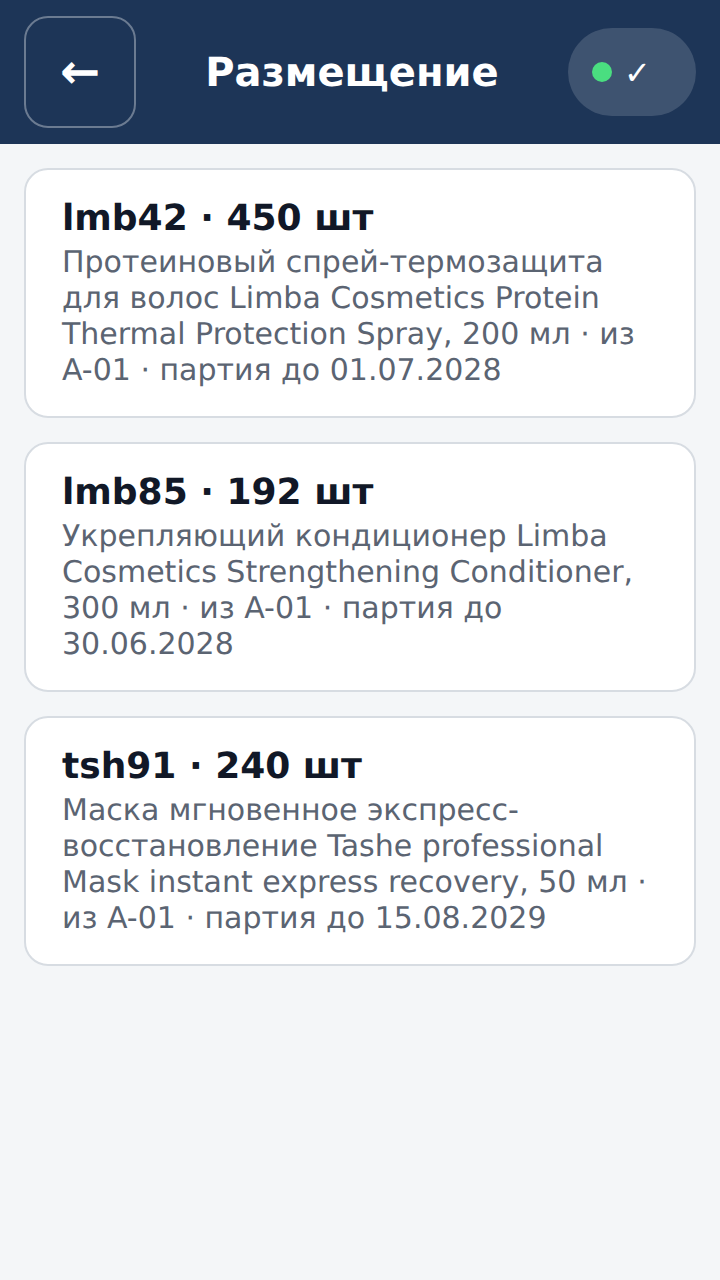
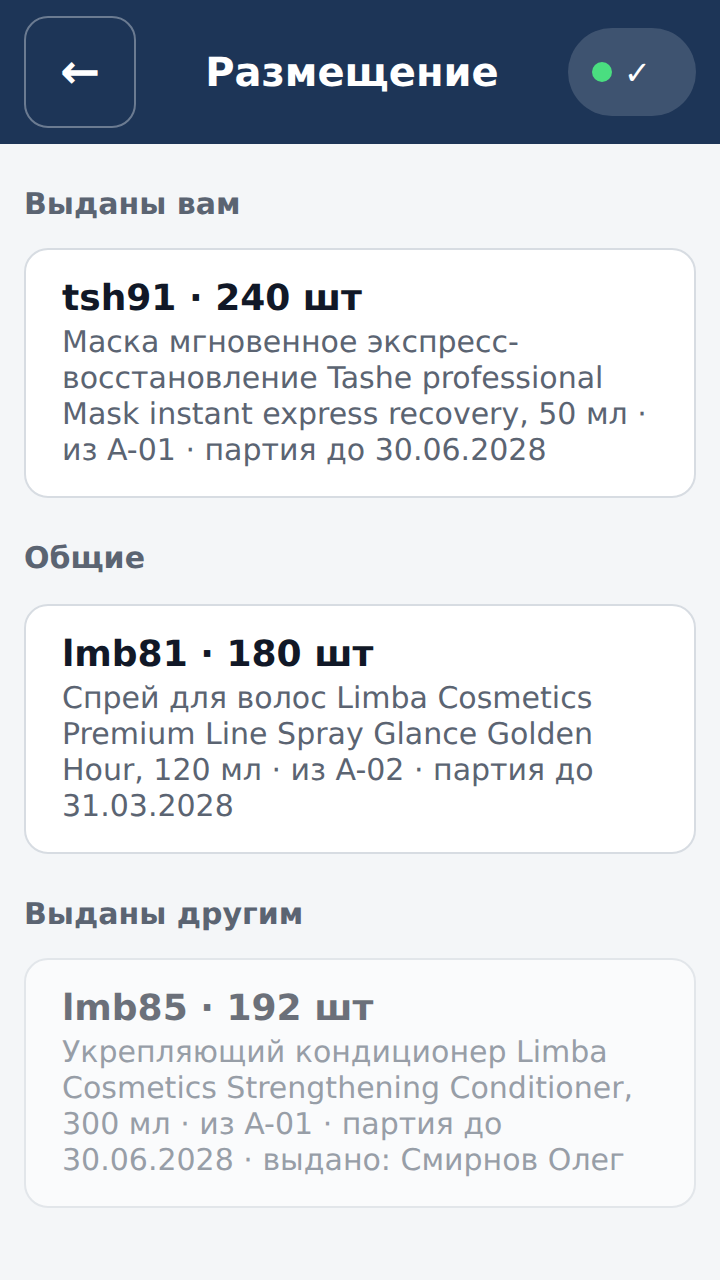
wms: памятка старшего смены, контроль склада и бейджи в учебнике, обновлены памятки и «О программе»
Claude-Session: https://claude.ai/code/session_01EQchvHucqRYRNc5ebqMrHS

diff --git a/wms/starshiy/index.html b/wms/starshiy/index.html
@@ -1,0 +1,168 @@
+<!doctype html>
+<html lang="ru">
+<head>
+<meta charset="utf-8">
+<meta name="viewport" content="width=device-width, initial-scale=1, viewport-fit=cover">
+<meta name="robots" content="noindex, nofollow">
+<meta name="description" content="Памятка старшего смены склада Подольск: контроль склада, выдача заданий, приёмки, сотрудники, бейджи и PIN, ТСД, этикетки.">
+<meta name="color-scheme" content="light dark">
+<title>Памятка старшего смены</title>
+<link rel="preconnect" href="https://fonts.googleapis.com">
+<link rel="preconnect" href="https://fonts.gstatic.com" crossorigin>
+<link rel="stylesheet" href="https://fonts.googleapis.com/css2?family=Unbounded:wght@700&family=Golos+Text:wght@400;600;700&family=JetBrains+Mono:wght@600;700&display=swap">
+<style>
+/* Памятка на одну страницу A4: только то, что нужно в работе. Тот же стиль, что у учебника. */
+:root {
+  --bg: #f2f4f7; --surface: #ffffff; --ink: #142033; --muted: #586478; --line: #d5dbe4;
+  --brand: #1d3557; --brand-soft: #e4ebf5; --signal: #b45f00; --signal-soft: #fff1d9; --bad: #b42318;
+  --f-display: "Unbounded", "Golos Text", system-ui, sans-serif;
+  --f-body: "Golos Text", system-ui, -apple-system, "Segoe UI", Roboto, sans-serif;
+  --f-mono: "JetBrains Mono", ui-monospace, Menlo, Consolas, monospace;
+}
+@media (prefers-color-scheme: dark) {
+  :root:not([data-theme="light"]) {
+    --bg: #0e1520; --surface: #161f2d; --ink: #e6ebf2; --muted: #9ba7b9; --line: #2a3648;
+    --brand: #9cbbe6; --brand-soft: #1d2a3d; --signal: #f2b04a; --signal-soft: #33260f; --bad: #f08b80;
+    color-scheme: dark;
+  }
+}
+:root[data-theme="dark"] {
+  --bg: #0e1520; --surface: #161f2d; --ink: #e6ebf2; --muted: #9ba7b9; --line: #2a3648;
+  --brand: #9cbbe6; --brand-soft: #1d2a3d; --signal: #f2b04a; --signal-soft: #33260f; --bad: #f08b80;
+  color-scheme: dark;
+}
+* { box-sizing: border-box; }
+html { -webkit-text-size-adjust: 100%; }
+body { margin: 0; background: var(--bg); color: var(--ink); font: 400 16px/1.5 var(--f-body); }
+.wrap { max-width: 980px; margin: 0 auto; padding: 20px 16px 40px; display: grid; gap: 14px; }
+header { display: grid; gap: 4px; }
+.eyebrow { font: 600 13px var(--f-mono); color: var(--muted); letter-spacing: .02em; }
+h1 { margin: 0; font: 700 clamp(24px, 4.4vw, 34px)/1.15 var(--f-display); color: var(--brand); }
+.sub { margin: 0; color: var(--muted); }
+.rule { margin: 0; padding: 12px 14px; border-radius: 12px; background: var(--signal-soft); font-weight: 600; }
+.rule b { color: var(--signal); }
+.grid { display: grid; grid-template-columns: repeat(auto-fit, minmax(290px, 1fr)); gap: 12px; }
+section { background: var(--surface); border: 1px solid var(--line); border-radius: 14px; padding: 12px 14px; }
+h2 { margin: 0 0 6px; font: 700 17px/1.25 var(--f-body); color: var(--brand); display: flex; gap: 8px; align-items: baseline; }
+h2 .n { font: 700 13px var(--f-mono); color: var(--muted); }
+ol, ul { margin: 0; padding-left: 20px; display: grid; gap: 3px; }
+p { margin: 0; }
+.mono { font-family: var(--f-mono); font-size: .92em; }
+.k { display: inline-block; padding: 0 6px; border-radius: 6px; background: var(--brand-soft); font-weight: 600; white-space: nowrap; }
+.note { color: var(--muted); font-size: 14px; margin-top: 4px; }
+.stop { border-color: var(--bad); }
+.stop h2 { color: var(--bad); }
+footer { color: var(--muted); font-size: 13px; }
+@media print {
+  @page { size: A4; margin: 9mm; }
+  body { background: #fff; color: #000; font-size: 10pt; line-height: 1.3; }
+  .wrap { max-width: none; padding: 0; gap: 8px; }
+  h1 { font-size: 20pt; color: #000; }
+  section { break-inside: avoid; padding: 7px 10px; border-color: #999; margin-bottom: 7px; }
+  .grid { display: block; columns: 2; column-gap: 8px; }
+  .rule { background: #f3f3f3; }
+  .k { background: #eee; }
+}
+</style>
+</head>
+<body>
+<div class="wrap">
+  <header>
+    <span class="eyebrow">Склад Подольск · компьютер и ТСД</span>
+    <h1>Памятка старшего смены</h1>
+    <p class="sub">Контроль склада, задания, приёмки, сотрудники и бейджи.</p>
+  </header>
+
+  <p class="rule"><b>Главное.</b> На экране «Контроль склада» видно всё, что сделано сканом: кто на смене, кому какое задание выдано и когда, каждая операция. Чего там нет — для программы не было.</p>
+
+  <div class="grid">
+    <section>
+      <h2><span class="n">1</span>Вход</h2>
+      <ol>
+        <li>Chrome → <span class="mono" id="app-origin">адрес программы</span>. Компьютер первый раз привязывает администратор — так же, как ТСД.</li>
+        <li>Свой код → <span class="k">Enter</span> → PIN кнопками на экране → <span class="k">Войти</span>.</li>
+        <li>В меню — <span class="k">Контроль склада</span>. На ТСД то же меню: «Контроль склада» и «Администрирование» есть только у старшего смены.</li>
+      </ol>
+    </section>
+
+    <section>
+      <h2><span class="n">2</span>Контроль склада</h2>
+      <ul>
+        <li><b>На смене</b> — кто вошёл, на каком ТСД, чем занят, последняя операция. «В программе» жёлтым — 15 минут без действий, красным — больше часа.</li>
+        <li><b>Лента операций</b> — всё по порядку; фильтр по сотруднику и по виду. «Из очереди ТСД» — сделано без сети, на сервер пришло позже.</li>
+        <li>Страница обновляется сама. Кнопка <span class="k">Лента</span> в строке сотрудника — только его операции.</li>
+      </ul>
+    </section>
+
+    <section>
+      <h2><span class="n">3</span>Задания на размещение</h2>
+      <ol>
+        <li>Появляются, когда приёмку закрыли.</li>
+        <li>Выдать: в строке задания выберите сотрудника. У него на ТСД задание будет сверху, другие его не возьмут.</li>
+        <li>«— никому» — задание снова общее.</li>
+      </ol>
+      <p class="note">Видно, когда задание выдано, кто выдал (или «взял сам»), когда начато. Выполненные за сегодня — кнопкой внизу.</p>
+    </section>
+
+    <section>
+      <h2><span class="n">4</span>Приёмки</h2>
+      <ul>
+        <li>Поставки из МойСклада появляются сами (каждые 5 минут): принято / план, кто принимал, время сканов.</li>
+        <li><span class="k">Строки</span> — по каждому товару: план, принято, разница.</li>
+        <li><span class="k">Закрыть приёмку</span> — когда всё принято. Недостача уйдёт в акт, появятся задания на размещение.</li>
+      </ul>
+    </section>
+
+    <section>
+      <h2><span class="n">5</span>Новый сотрудник и бейдж</h2>
+      <ol>
+        <li><span class="k">Администрирование</span> → «Новый сотрудник».</li>
+        <li>Код — латиницей и цифрами (K007, ivanov). Штрихкод появляется сразу под полем.</li>
+        <li>Имя, роль, PIN → <span class="k">Добавить сотрудника</span> → <span class="k">Напечатать бейдж</span>.</li>
+      </ol>
+      <p class="note">Все бейджи сразу — «Бейджи всех сотрудников (A4)» или «Бейджи: файл для принтера TSC». Печать в масштабе 100 %. Проверьте бейдж сканером на экране входа ТСД.</p>
+    </section>
+
+    <section>
+      <h2><span class="n">6</span>Забыл PIN, ушёл</h2>
+      <ul>
+        <li>Забыл PIN или заблокирован — <span class="k">Изменить</span> в строке сотрудника → новый PIN → <span class="k">Сохранить</span>. Блокировка снимается, старый PIN больше не подходит.</li>
+        <li>Новый PIN сообщайте лично, не в чат.</li>
+        <li>Уволился — <span class="k">Отключить</span>. <span class="k">Удалить</span> — кто уже работал, уходит в архив, история его операций остаётся.</li>
+      </ul>
+    </section>
+
+    <section>
+      <h2><span class="n">7</span>ТСД и этикетки</h2>
+      <ul>
+        <li>Новый ТСД: «ТСД» → код (EDA61K-05) → <span class="k">Добавить и показать код</span> → на ТСД отсканировать QR.</li>
+        <li>Этикетки ячеек: зона, ряды → <span class="k">Просмотр</span> (лист) или <span class="k">Файл для принтера</span> (TSC 58×40).</li>
+      </ul>
+    </section>
+
+    <section>
+      <h2><span class="n">8</span>Инвентаризация и списание</h2>
+      <ul>
+        <li>Инвентаризация — на компьютере: создать, закрепить ряды за сотрудниками, сверить, провести.</li>
+        <li>Списание — на ТСД, меню «Списание» (только старший смены): ячейка → товар → партия → количество → причина.</li>
+      </ul>
+    </section>
+
+    <section class="stop">
+      <h2><span class="n">!</span>Чего не делать</h2>
+      <ul>
+        <li>Не работать под ключом администратора: действия подпишутся «администратор». Входите своим кодом.</li>
+        <li>Не закрывать приёмку, пока товар по ней ещё сканируют.</li>
+        <li>Не давать свой бейдж и PIN другим.</li>
+      </ul>
+    </section>
+  </div>
+
+  <footer>Сборки (отбора заказов) в программе пока нет — это следующий этап. Памятки: <a href="../kladovshik/">кладовщика</a> · <a href="../logist/">логиста</a>.</footer>
+</div>
+<script>
+// На сервере программы подставляем её адрес; на открытом сайте адрес не публикуем.
+if (/^https?:$/.test(location.protocol) && !/github\.io$/.test(location.hostname)) document.getElementById('app-origin').textContent = location.origin;
+</script>
+</body>
+</html>

diff --git a/wms/index.html b/wms/index.html
@@ -186,6 +186,7 @@ footer { padding-top: 48px; color: var(--muted); font-size: 14px; max-width: 80c
     <div class="cta">
       <a class="btn primary" href="kladovshik/">Памятка кладовщика</a>
       <a class="btn primary" href="logist/">Памятка логиста</a>
+      <a class="btn primary" href="starshiy/">Памятка старшего смены</a>
       <a class="btn ghost" href="training/">Учебник с экранами</a>
       <a class="btn ghost" href="#tech">Как устроено</a>
     </div>
@@ -240,7 +241,7 @@ footer { padding-top: 48px; color: var(--muted); font-size: 14px; max-width: 80c
       <span><span class="st plan">в планах</span> следующие этапы</span>
     </div>
     <div class="blocks">
-      <article class="block"><div class="block-top"><h3>Вход и устройства</h3><span class="st on">работает</span></div><span class="where">ТСД · компьютер</span><p>Вход по бейджу и PIN. Каждый ТСД привязан к складу своим кодом. Роли: кладовщик, старший смены, администратор.</p></article>
+      <article class="block"><div class="block-top"><h3>Вход и устройства</h3><span class="st on">работает</span></div><span class="where">ТСД · компьютер</span><p>Вход по бейджу и PIN. Каждый ТСД привязан к складу своим кодом. Роли: кладовщик, старший смены, логист, администратор.</p></article>
       <article class="block"><div class="block-top"><h3>Приёмка</h3><span class="st on">работает</span></div><span class="where">ТСД</span><p>Приёмка коробами: число коробов × кратность. Даты с упаковки на каждую партию. Коды «Честного знака». Расхождения с планом уходят в акт.</p></article>
       <article class="block"><div class="block-top"><h3>Поставки из МойСклада</h3><span class="st on">работает</span></div><span class="where">автоматически</span><p>Непроведённые приёмки склада подтягиваются каждые 5 минут, Альнилам — сверху. Видно, что документ уже проведён, удалён или перенесён на другой склад.</p></article>
       <article class="block"><div class="block-top"><h3>Размещение с подсказкой</h3><span class="st on">работает</span></div><span class="where">ТСД</span><p>После приёмки — задачи на размещение. ТСД подсказывает ячейку: к той же партии, к тому же товару, потом свободную по маршруту.</p></article>
@@ -251,12 +252,13 @@ footer { padding-top: 48px; color: var(--muted); font-size: 14px; max-width: 80c
       <article class="block"><div class="block-top"><h3>Карта склада</h3><span class="st on">работает</span></div><span class="where">компьютер</span><p>Зоны и ячейки, что где лежит и до какого срока, кто и когда двигал товар. Остатки на любой момент в прошлом, выгрузка в Excel.</p></article>
       <article class="block"><div class="block-top"><h3>Клиенты и остаточный срок</h3><span class="st on">работает</span></div><span class="where">компьютер</span><p>Требования сетей к остаточному сроку годности (ОСГ). На карте склада видно, какие партии подходят клиенту.</p></article>
       <article class="block"><div class="block-top"><h3>Этикетки ячеек</h3><span class="st on">работает</span></div><span class="where">компьютер</span><p>Печать этикеток со штрихкодом на термопринтер 58×40 или на лист A4: зона, ряд, секция, ярус, место.</p></article>
-      <article class="block"><div class="block-top"><h3>Администрирование</h3><span class="st on">работает</span></div><span class="where">компьютер</span><p>Сотрудники, роли, PIN, ТСД. Уволенный сотрудник уходит в архив, его история операций сохраняется.</p></article>
+      <article class="block"><div class="block-top"><h3>Контроль склада</h3><span class="st on">работает</span></div><span class="where">компьютер</span><p>Кто на смене, на каком ТСД и чем занят. Задания на размещение: кому выдано, когда, начато ли; старший выдаёт задания сотрудникам. Приёмки план/факт, инвентаризация, итоги дня, лента всех операций.</p></article>
+      <article class="block"><div class="block-top"><h3>Администрирование</h3><span class="st on">работает</span></div><span class="where">компьютер</span><p>Сотрудники, роли, ТСД. Бейдж со штрихкодом сразу при заведении сотрудника, печать на A4 или термопринтер. Новый PIN, если забыл. Уволенный сотрудник уходит в архив, его история операций сохраняется.</p></article>
     </div>
     <h3 class="subhead">Дальше</h3>
     <div class="blocks next">
       <article class="block"><div class="block-top"><h3>Учебный стенд</h3><span class="st wait">готово</span></div><span class="where">отдельный сервер</span><p>Отдельная база с учебными данными и кнопкой сброса, чтобы учиться, не трогая рабочий учёт. Программа готова, базу для стенда ещё не создали.</p></article>
-      <article class="block planned"><div class="block-top"><h3>Пополнение FBS и отбор</h3><span class="st plan">в планах</span></div><span class="where">этап 2</span><p>Задачи на пополнение зоны FBS из хранения, отбор по сроку годности.</p></article>
+      <article class="block planned"><div class="block-top"><h3>Сборка заказов и пополнение FBS</h3><span class="st plan">в планах</span></div><span class="where">этап 2</span><p>Заказы на сборку, отбор по сроку годности с выдачей заданий сборщикам, пополнение зоны FBS из хранения.</p></article>
       <article class="block planned"><div class="block-top"><h3>Отгрузки</h3><span class="st plan">в планах</span></div><span class="where">этапы 2–3</span><p>Паллетные отгрузки на маркетплейсы и в сети, маркировка паллет SSCC, документы, передача в ТК.</p></article>
       <article class="block planned"><div class="block-top"><h3>Факт приёмки в учётную систему</h3><span class="st plan">в планах</span></div><span class="where">интеграция</span><p>Проводить приёмку в МойСкладе, а затем в 1С:ERP только по факту скана на складе.</p></article>
     </div>
@@ -342,15 +344,15 @@ footer { padding-top: 48px; color: var(--muted); font-size: 14px; max-width: 80c
     <div class="head">
       <span class="kicker">Что написано</span>
       <h2>Программа в цифрах</h2>
-      <p>С 1 по 9 октября 2026.</p>
+      <p>С 1 по 13 октября 2026.</p>
     </div>
     <div class="nums">
-      <div class="num"><b>12</b><span>экранов: 8 на ТСД, 4 на компьютере</span></div>
-      <div class="num"><b>69</b><span>методов сервера</span></div>
-      <div class="num"><b>18</b><span>изменений схемы базы</span></div>
-      <div class="num"><b>186</b><span>автотестов: 127 сервер, 42 ТСД, 17 синхронизация</span></div>
-      <div class="num"><b>≈10,5 тыс.</b><span>строк кода: сервер, ТСД, синхронизация</span></div>
-      <div class="num"><b>18</b><span>архитектурных решений</span></div>
+      <div class="num"><b>14</b><span>экранов: 9 на ТСД, 5 на компьютере</span></div>
+      <div class="num"><b>75</b><span>методов сервера</span></div>
+      <div class="num"><b>19</b><span>изменений схемы базы</span></div>
+      <div class="num"><b>225</b><span>автотестов: 147 сервер, 61 ТСД, 17 синхронизация</span></div>
+      <div class="num"><b>≈11,9 тыс.</b><span>строк кода: сервер, ТСД, синхронизация</span></div>
+      <div class="num"><b>19</b><span>архитектурных решений</span></div>
     </div>
   </section>
 
@@ -379,12 +381,13 @@ footer { padding-top: 48px; color: var(--muted); font-size: 14px; max-width: 80c
       <li><span class="r">Р16</span><span class="d">08.10</span><span class="t">Доработки перед первой инвентаризацией: счёт коробами, распределение работы, неизвестный товар</span></li>
       <li><span class="r">Р17</span><span class="d">09.10</span><span class="t">Поставки из МойСклада каждые 5 минут</span></li>
       <li><span class="r">Р18</span><span class="d">09.10</span><span class="t">Подсказка «куда положить» при размещении</span></li>
+      <li><span class="r">Р19</span><span class="d">13.10</span><span class="t">Контроль склада для старшего смены, выдача заданий, бейджи со штрихкодом</span></li>
     </ol>
   </section>
 
   <footer>
     <p>Страница о программе для сотрудников и партнёров склада Подольск. Данных склада здесь нет: программа работает на ТСД и компьютерах склада по входу сотрудника.</p>
-    <p>Обновлено 9 октября 2026 · <a href="training/">Учебник для сотрудников</a></p>
+    <p>Обновлено 13 октября 2026 · <a href="training/">Учебник для сотрудников</a></p>
   </footer>
 </div>
 </body>

diff --git a/wms/training/index.html b/wms/training/index.html
@@ -196,7 +196,7 @@ footer { padding-top: 48px; color: var(--muted); font-size: 14px; max-width: 80c
     <span class="eyebrow">Склад Подольск · программа учёта на ТСД</span>
     <h1>Как работать на ТСД</h1>
     <p class="lead">Письмо для всех сотрудников и пошаговые экраны: приёмка, размещение, перемещение, инвентаризация. Экраны сняты на учебной приёмке — так их и увидите на своём ТСД.</p>
-    <p class="lead">Коротко, на одну страницу: <a href="../kladovshik/">памятка кладовщика</a> · <a href="../logist/">памятка логиста</a>.</p>
+    <p class="lead">Коротко, на одну страницу: <a href="../kladovshik/">памятка кладовщика</a> · <a href="../logist/">памятка логиста</a> · <a href="../starshiy/">памятка старшего смены</a>.</p>
     <nav class="toc" aria-label="Разделы">
       <a href="#letter">Письмо</a>
       <a href="#first">Первый запуск</a>
@@ -288,7 +288,7 @@ footer { padding-top: 48px; color: var(--muted); font-size: 14px; max-width: 80c
     <div class="steps">
       <figure class="step">
         <div class="phone"><div class="screen"><img src="shots/01-login-badge.png" alt="Экран входа: поле «Отсканируйте бейдж»" loading="lazy"></div></div>
-        <figcaption><span class="n">1</span><h3>Отсканируйте свой бейдж</h3><p>Нет бейджа — нажмите ⌨ и наберите код сотрудника.</p></figcaption>
+        <figcaption><span class="n">1</span><h3>Отсканируйте свой бейдж</h3><p>Бейдж со штрихкодом печатает старший смены. Нет бейджа — нажмите ⌨, наберите код сотрудника и Enter.</p></figcaption>
       </figure>
       <figure class="step">
         <div class="phone"><div class="screen"><img src="shots/02-login-pin.png" alt="Ввод PIN на экранной клавиатуре" loading="lazy"></div></div>
@@ -355,7 +355,7 @@ footer { padding-top: 48px; color: var(--muted); font-size: 14px; max-width: 80c
     <div class="steps">
       <figure class="step">
         <div class="phone"><div class="screen"><img src="shots/12-putaway-list.png" alt="Список задач размещения" loading="lazy"></div></div>
-        <figcaption><span class="n">1</span><h3>Выберите задачу</h3><p>В строке — артикул, сколько осталось разместить и откуда брать.</p></figcaption>
+        <figcaption><span class="n">1</span><h3>Выберите задачу</h3><p>Сверху — задания, которые старший смены выдал вам, потом общие. Выданные другим — серые, их не взять. В строке — артикул, сколько осталось разместить и откуда брать. Открыли задание — оно записано на вас; вернулись к списку, ничего не разместив, — снова общее.</p></figcaption>
       </figure>
       <figure class="step">
         <div class="phone"><div class="screen"><img src="shots/13-putaway-suggest.png" alt="Подсказка: первая ячейка с той же партией" loading="lazy"></div></div>
@@ -502,9 +502,17 @@ footer { padding-top: 48px; color: var(--muted); font-size: 14px; max-width: 80c
     <div class="op-head">
       <span class="path">Компьютер старшего смены</span>
       <h2>Что видит старший смены</h2>
-      <p>Всё, что сделано на ТСД, сразу видно на компьютере.</p>
+      <p>Всё, что сделано на ТСД, сразу видно на компьютере. Коротко по шагам — <a href="../starshiy/">памятка старшего смены</a>.</p>
     </div>
     <div class="desk">
+      <figure>
+        <div class="monitor"><img src="shots/32-desk-control.png" alt="Экран «Контроль склада»: кто на смене, задания на размещение" loading="lazy"></div>
+        <figcaption>«Контроль склада»: кто на смене, на каком ТСД и когда последний раз был в программе, чем занят, последняя операция. Задания на размещение — кому выдано, когда, начато ли; выдать задание — выбрать сотрудника в строке. Ниже приёмки (план и факт, строки, закрыть приёмку), инвентаризация, итоги дня и лента всех операций. Страница обновляется сама.</figcaption>
+      </figure>
+      <figure>
+        <div class="monitor"><img src="shots/33-desk-admin-badge.png" alt="Администрирование: сотрудник добавлен, штрихкод бейджа" loading="lazy"></div>
+        <figcaption>«Администрирование» → «Сотрудники»: код сотрудника латиницей — штрихкод появляется сразу. «Напечатать бейдж» — карточка на A4, «Бейджи: файл для принтера TSC» — этикетки 58×40. Забыл PIN — «Изменить» в строке сотрудника, новый PIN.</figcaption>
+      </figure>
       <figure>
         <div class="monitor"><img src="shots/30-desk-warehouse.png" alt="Экран «Склад»: карта зоны B и карточка ячейки" loading="lazy"></div>
         <figcaption>«Склад»: карта зоны, занятые ячейки, сроки. Клик по ячейке — что лежит, до какого срока, кто и когда положил. Вверху поиск по артикулу или штрихкоду и панель «Сроки».</figcaption>

diff --git a/wms/kladovshik/index.html b/wms/kladovshik/index.html
@@ -80,7 +80,7 @@ footer { color: var(--muted); font-size: 13px; }
       <h2><span class="n">1</span>Начало смены</h2>
       <ol>
         <li>На ТСД откройте иконку «ТСД Подольск».</li>
-        <li>Отсканируйте свой бейдж. Нет бейджа — <span class="k">⌨</span>, наберите свой код и нажмите Enter на клавиатуре.</li>
+        <li>Отсканируйте свой бейдж (его печатает старший смены). Нет бейджа — <span class="k">⌨</span>, наберите свой код и нажмите Enter на клавиатуре.</li>
         <li>Наберите PIN → <span class="k">Войти</span>. PIN никому не говорите.</li>
       </ol>
       <p class="note">Синяя полоса «Вышла новая версия программы» — нажмите <span class="k">Обновить</span>.</p>
@@ -110,11 +110,12 @@ footer { color: var(--muted); font-size: 13px; }
     <section>
       <h2><span class="n">4</span>Размещение</h2>
       <ol>
-        <li><span class="k">Размещение</span> → выберите задачу. Задачи появляются, когда приёмку закрыли.</li>
+        <li><span class="k">Размещение</span> → выберите задачу. Сверху — выданные вам старшим смены, потом общие. Задачи появляются, когда приёмку закрыли.</li>
         <li>«Куда положить»: первая ячейка, в зелёной рамке, — лучшая. Нет места — можно другую.</li>
         <li>Скан товара → скан ячейки, куда кладёте.</li>
         <li>Проверьте количество → <span class="k">Разместить …</span>.</li>
       </ol>
+      <p class="note">Открыли задачу — она записана на вас. Передумали — «К списку задач», задача снова общая. Выданные другим — серые, их не взять.</p>
     </section>
 
     <section>

diff --git a/wms/logist/index.html b/wms/logist/index.html
@@ -81,7 +81,7 @@ footer { color: var(--muted); font-size: 13px; }
       <ol>
         <li>Chrome → <span class="mono" id="app-origin">адрес программы (спросите у старшего смены)</span>.</li>
         <li>В поле «Бейдж сотрудника» наберите свой код → <span class="k">Enter</span> → PIN кнопками на экране (мышью) → <span class="k">Войти</span>. Код и PIN выдаёт старший смены.</li>
-        <li>После входа откройте «Склад»: тот же адрес с <span class="mono">#/warehouse</span> в конце. Сохраните в закладки.</li>
+        <li>В меню — кнопка «Склад: где лежит товар, сроки, клиенты». Или сразу адрес с <span class="mono">#/warehouse</span> в конце — сохраните в закладки.</li>
       </ol>
       <p class="note">Первый раз старший смены привязывает ваш компьютер. Вход действует 12 часов. Просит «Ключ администратора» — вы не вошли: откройте адрес без <span class="mono">#/warehouse</span> и войдите.</p>
     </section>
